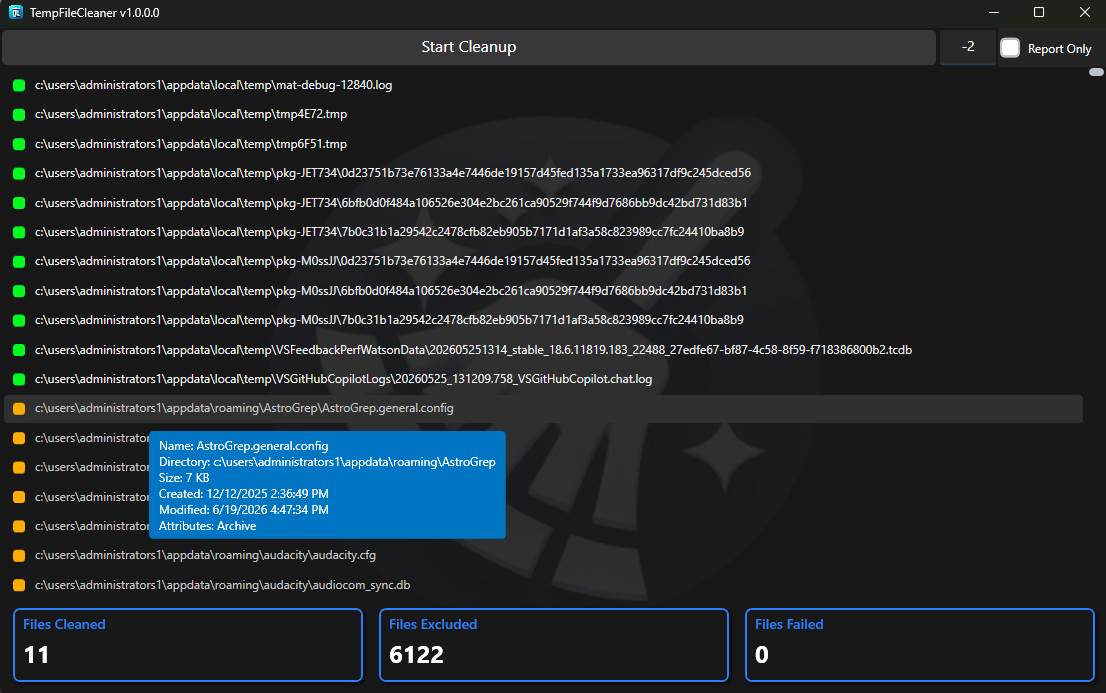
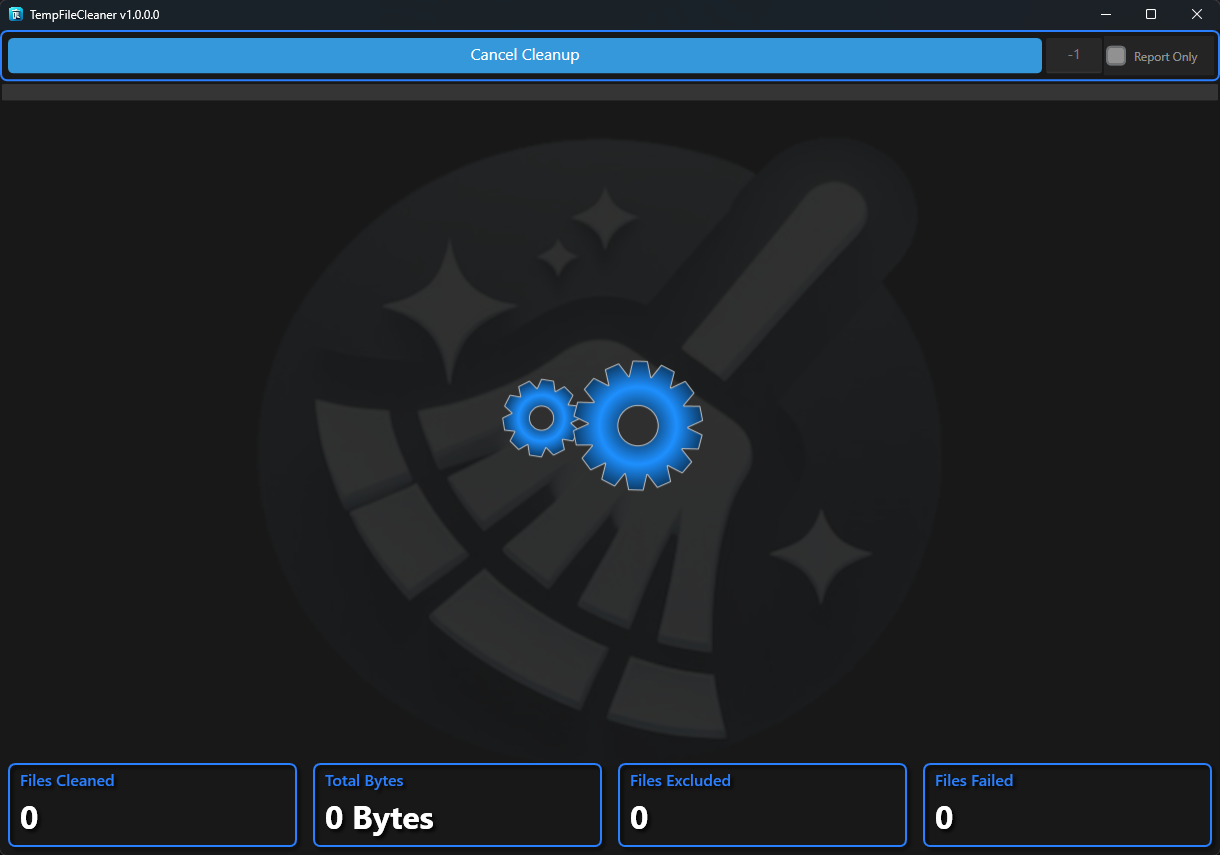
Add files via upload

Changed region(s): [[0.0, 0.2424, 1.0, 1.0], [0.0, 0.0, 1.0, 0.2121], [0.9222, 0.0, 0.953, 0.0303]]

diff --git a/README.md b/README.md
@@ -2,11 +2,13 @@
 
 ## 💻 WPF - Temp File Cleaner
 
-![Example Picture 1](./Screenshot.png)
+![Example 1](./Screenshot.png)
 
-![Example Picture 2](./Screenshot2.png)
+![Example 2](./Screenshot2.png)
 
-![Example Config](./Screenshot3.png)
+![Example 3](./Screenshot3.png)
+
+![Config](./Screenshot4.png)
 
 **Dependencies**
 
